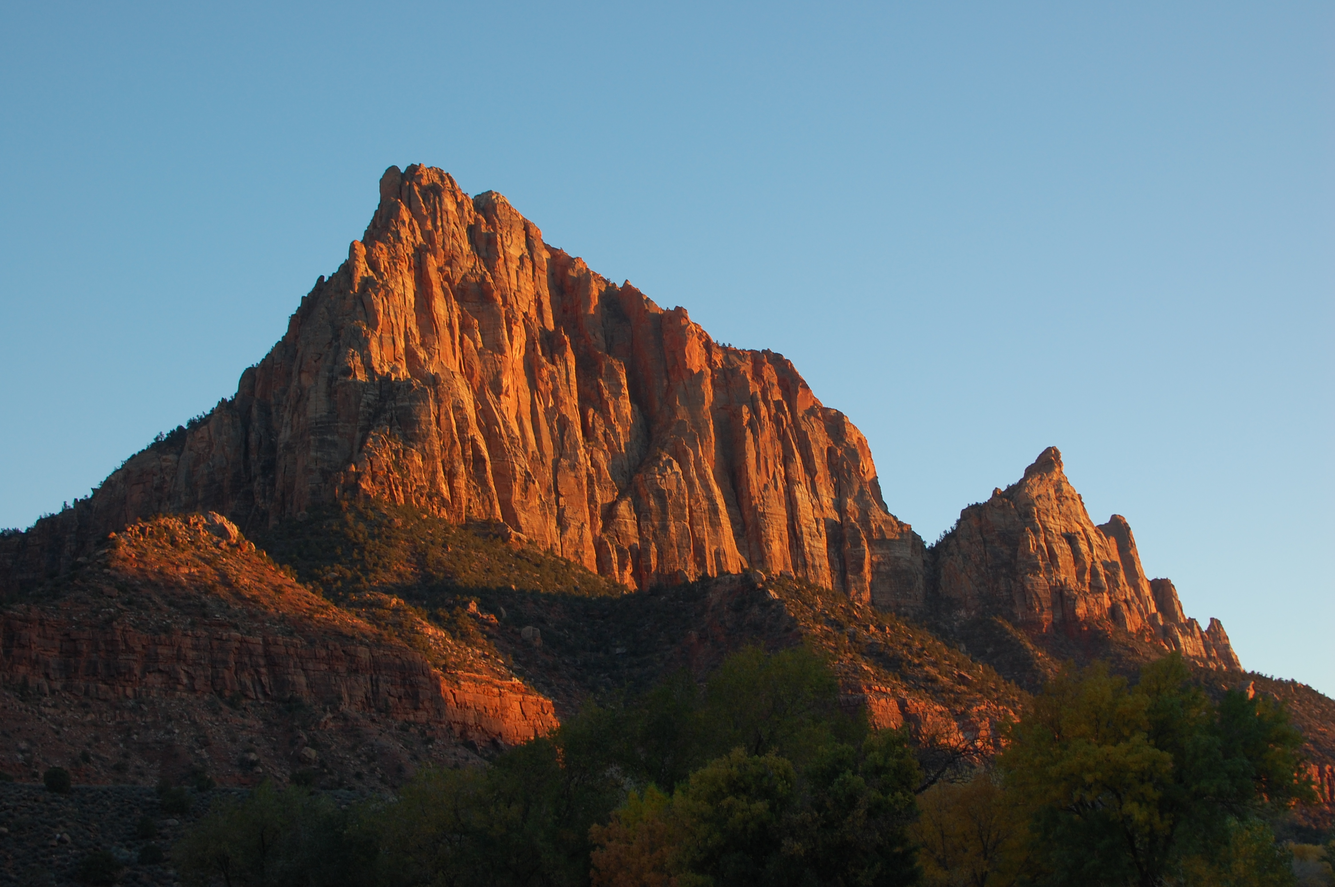
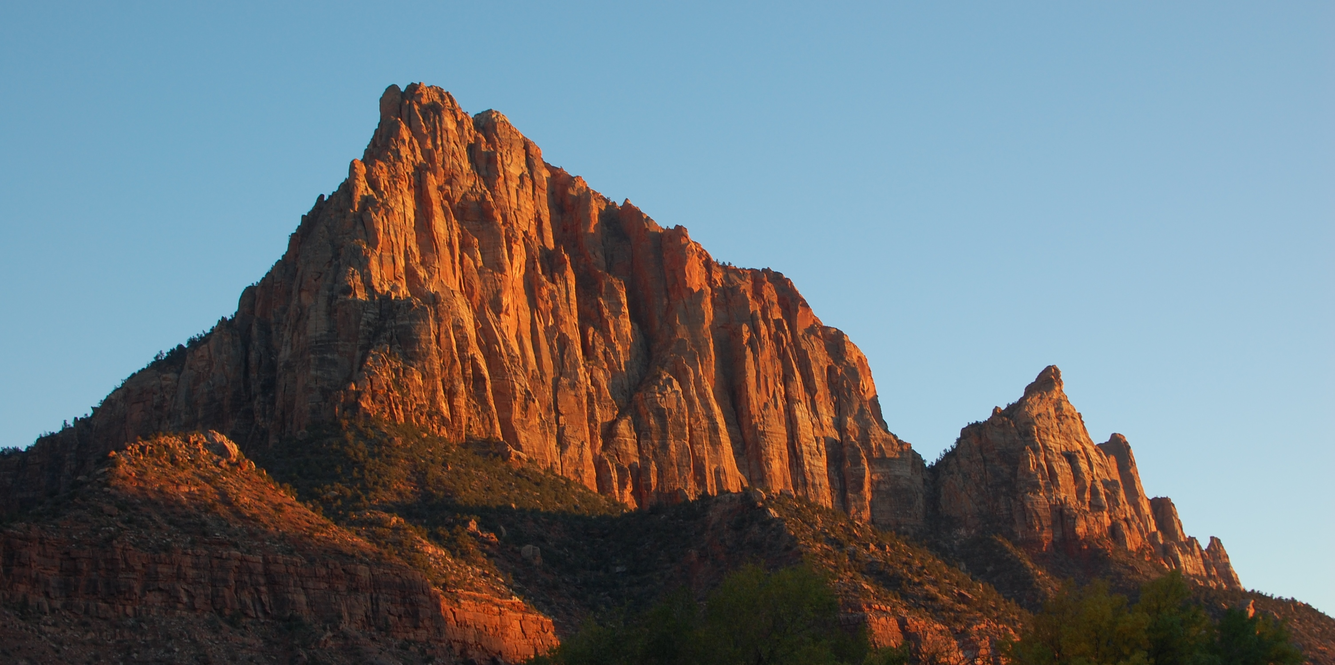
Updated layout rows

diff --git a/index.html b/index.html
@@ -4,39 +4,56 @@
     <meta charset="utf-8">
     <title>TC Photography</title>
     <link rel="stylesheet" href="http://flip.hr/css/bootstrap.min.css">
+    <link rel="stylesheet" type="text/css" href="css/style.css">
 </head>
 <body>
 
-    <div class="hero-unit">
-        <h1>Layout</h1>
-        <p>Text</p>
-        <p><a class="btn btn-primary btn-large">Super important &raquo;</a></p>
+    <div class="coverPhoto">
+        <img src="img/DSC_3070.JPG" />
+    </div>
+    
+    <div class="container" id="topBar">
+            <div class="row">
+                <div class="span4">
+                    <h2 class="text-center">Picture</h2>
+                </div><!-- .span4 -->
+
+                <div class="span8">
+                    <p class="text-center">Center aligned text.</p>
+                </div><!-- .span4 -->
+            </div>
     </div>
 
-
     <div class="container">
-    
         <div class="row">
             <div class="span4">
                 <h2>Box</h2>
-                <p>Text </p>
-                <p><a class="btn" href="#">Click meeee &raquo;</a></p>
             </div><!-- .span4 -->
 
             <div class="span4">
                 <h2>Box  2</h2>
-                <p>More text </p>
-                <p><a class="btn" href="#">Click meeee &raquo;</a></p>
             </div><!-- .span4 -->
 
             <div class="span4">
                 <h2>Box  3</h2>
-                <p>Even more text </p>
-                <p><a class="btn" href="#">Click meeee &raquo;</a></p>
-            </div><!-- .span4 -->
+                <!--<p>Even more text </p>
+                <p><a class="btn" href="#">Click meeee &raquo;</a></p>  Unused button-->
 
-        </div><!-- .row -->
-    </div><!-- .container -->
+            </div><!-- .span4 -->
+        </div>
+    </div>
+
+    <div class="row-fluid" id="jsRow">
+        <div class="span12 bg">This is a big long div</div>
+    </div>
+
+
+
+
+    <div id="wrap">
+
+    </div>
+    <footer class="footer"></footer>
 
 </body>
 </html>

diff --git a/css/style.css b/css/style.css
@@ -1,5 +1,30 @@
-
-
-#coverPhoto {
-
+html, body {
+  height: 100%;
+  background-color: #FEFEF2;
 }
+
+#topBar {
+    margin-top: 3%;
+}
+
+#jsRow {
+    background-color: #5F9EA0;
+}
+
+#wrap {
+  min-height: 100%;
+}
+
+#main {
+  overflow:auto;
+  padding-bottom:150px; /* this needs to be bigger than footer height*/
+}
+
+.footer {
+  position: relative;
+  margin-top: -150px; /* negative value of footer height */
+  height: 150px;
+  clear:both;
+  padding-top:20px;
+  background-color: black;
+} 
